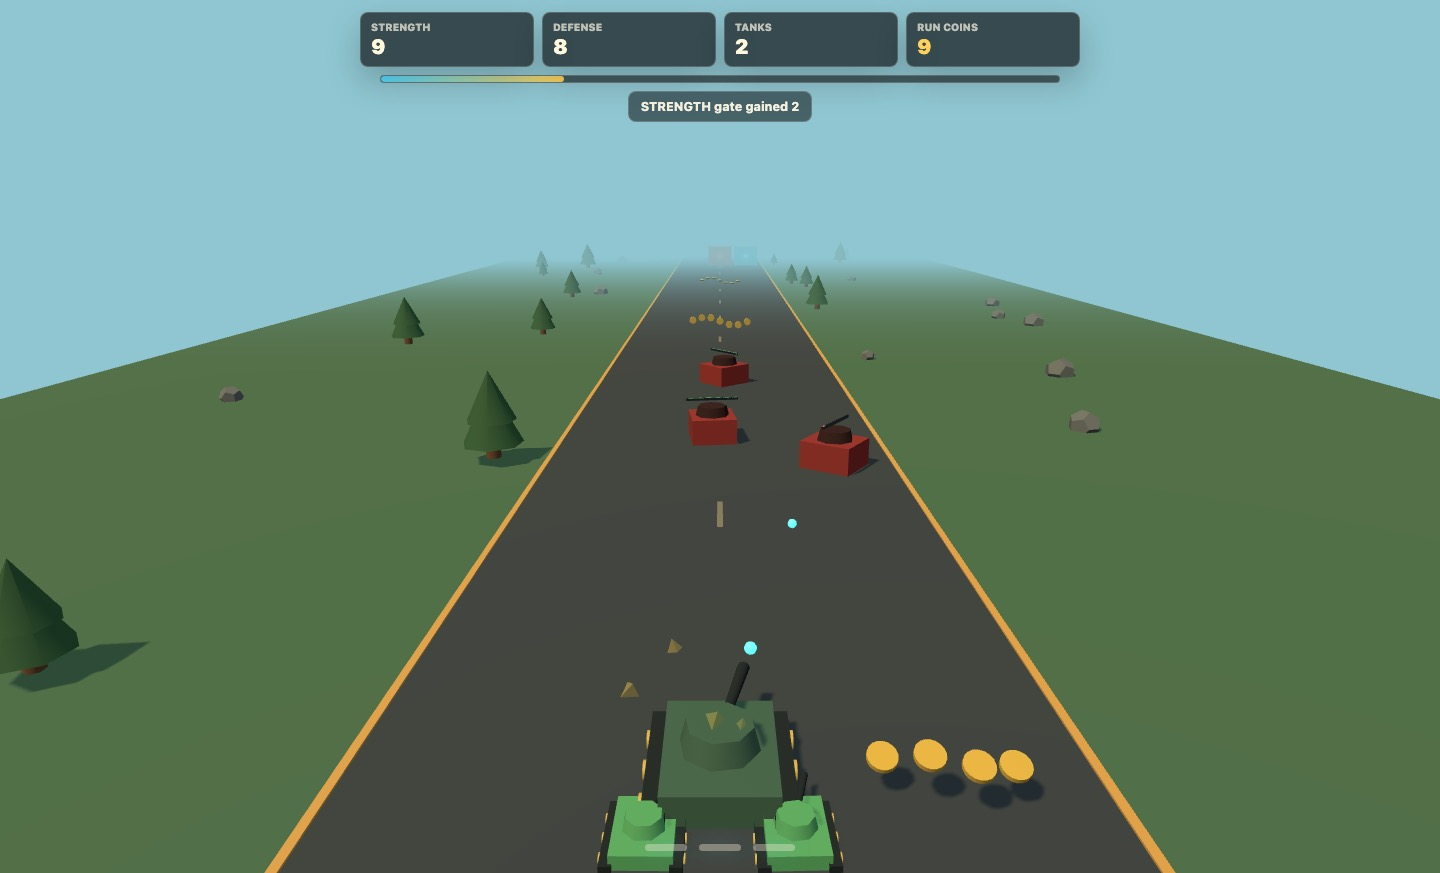
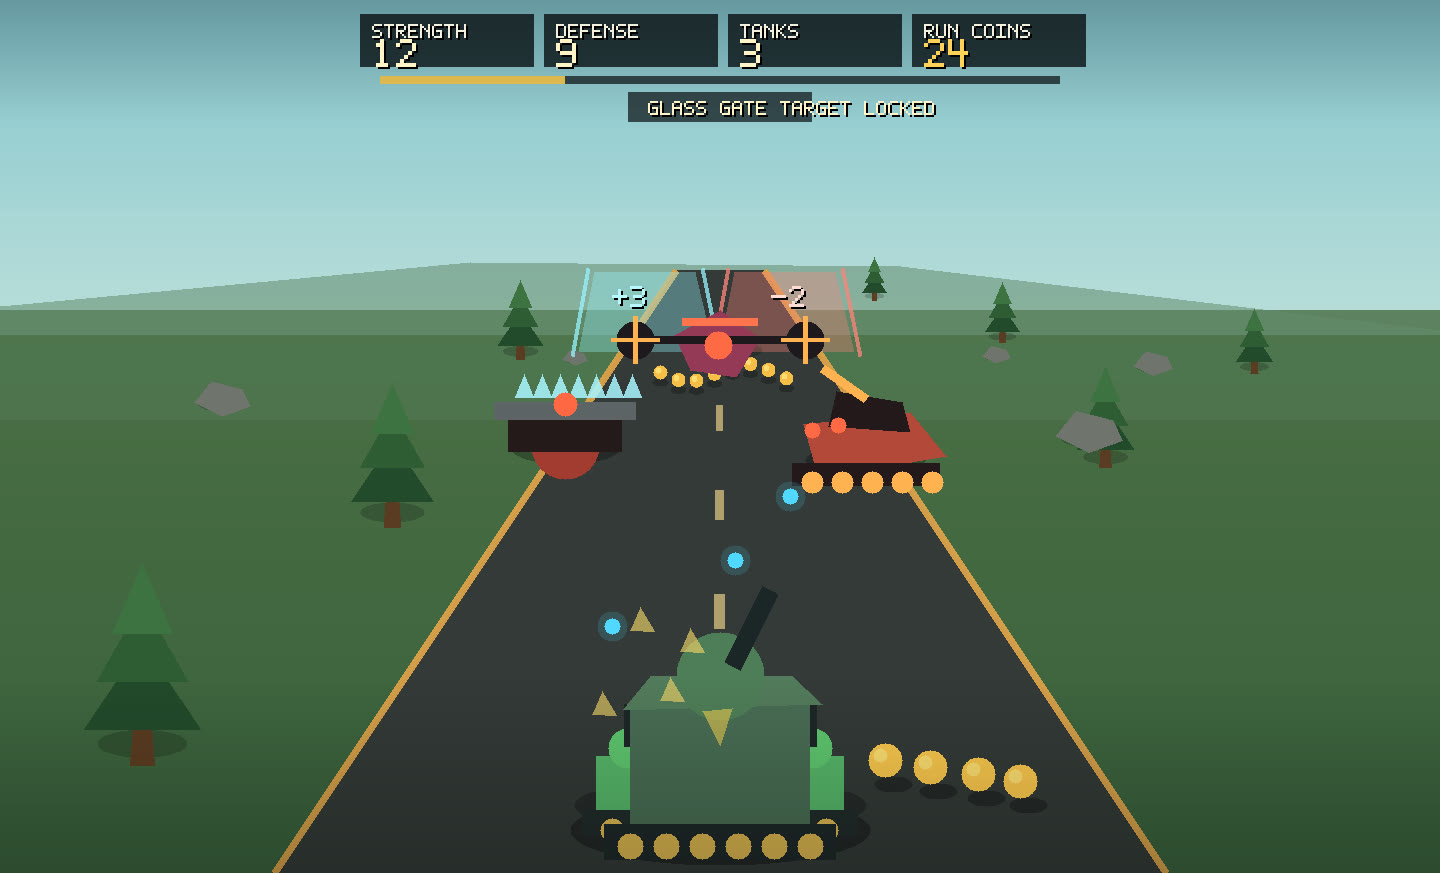
Update project creator metadata

diff --git a/index.html b/index.html
@@ -560,7 +560,7 @@
         </div>
         <div class="about-section">
           <h2><span class="about-icon"><i class="fas fa-robot"></i></span> Built With AI</h2>
-          <p>Every project here was created through collaboration with Claude AI. Earlier projects (2024–2025) were built with <span class="highlight">Claude Sonnet 4</span>, while newer work in 2026 uses <span class="highlight-alt">Claude Sonnet / Opus 4.6</span>.</p>
+          <p>Projects here were created through collaboration with AI coding agents. Older Claude/Sonnet projects are labeled as <span class="highlight">Claude</span>, Claude projects from around The Hollow onward are labeled <span class="highlight-alt">Opus 4.7</span>, and codex_* projects are labeled <span class="highlight-alt">OpenAI Codex / GPT-5.5</span>.</p>
           <p>The developer describes the idea, the AI writes the code, and together they iterate until it works. It's a new way to build software — conversational, fast, and surprisingly powerful.</p>
         </div>
         <div class="about-section">
@@ -599,15 +599,13 @@
       return `${months[d.getMonth()]} ${d.getDate()}, ${d.getFullYear()}`;
     }
 
-    function getClaudeVersion(iso) {
-      return parseInt(iso.slice(0, 4)) >= 2026
-        ? 'Claude Sonnet / Opus 4.6'
-        : 'Claude Sonnet 4';
+    function getProjectCreator(project) {
+      return project.creator || 'Creator unknown';
     }
 
     // ─── BUILD CARDS ───
     function buildCard(project, index) {
-      const builtWith = getClaudeVersion(project.date);
+      const builtWith = getProjectCreator(project);
       const badgeClass = project.type === 'app' ? 'badge-app' : 'badge-game';
       const badgeLabel = project.type === 'app' ? 'App' : 'Game';
 

diff --git a/projects.js b/projects.js
@@ -19,10 +19,12 @@
  *     "Opus 4.7"                  - Claude Opus 4.7 (the current Claude model)
  *     "OpenAI 5.5"                - OpenAI Codex / GPT-5.5
  *     "Opus 4.7 + OpenAI 5.5"     - Combination project, both contributed
- *     "Claude"                    - Older Claude model, exact version unknown
+ *     "Claude"                    - Older Claude/Sonnet model, exact version unknown
  *     "Hand"                      - Hand-coded by Aaron
  *   New projects MUST set `creator` to whichever model(s) actually built it.
  *   Update if a different model later contributes substantially.
+ *   Projects with codex_* paths/names are OpenAI 5.5 unless explicitly mixed.
+ *   Claude-built projects from The Hollow era onward should use "Opus 4.7".
  */
 const PROJECTS = [
 
@@ -252,11 +254,11 @@ const PROJECTS = [
 
   { name: "Awake",              path: "/gms/2d/awake/", screenshot: "awake", type: "game",
     desc: "Mobile-first sci-fi horror escape prototype. Wake with no memory, search a generated facility, and outrun what is hunting the hallway.",
-    date: "2026-05-13", creator: "OpenAI 5.5" },
+    date: "2026-05-13", creator: "Opus 4.7 + OpenAI 5.5" },
 
   { name: "The Horrors",        path: "/gms/2d/the_horrors/", screenshot: "the-horrors", type: "game",
     desc: "Mobile-first hub-and-spoke video horror. Every room connects through a central hallway via short generated transition videos; monster reveals, attacks, and most endings play in the hallway.",
-    date: "2026-05-15", creator: "Opus 4.7" },
+    date: "2026-05-15", creator: "Opus 4.7 + OpenAI 5.5" },
 
   { name: "Gate Tank Runner",   path: "/gms/3d/codex_gate_tank_runner/", screenshot: "codex-gate-tank-runner", type: "game",
     desc: "Low-poly Three.js tank runner. Smash glass gates for strength, armor, and tiny escort tanks, then spend salvaged coins on permanent garage upgrades.",